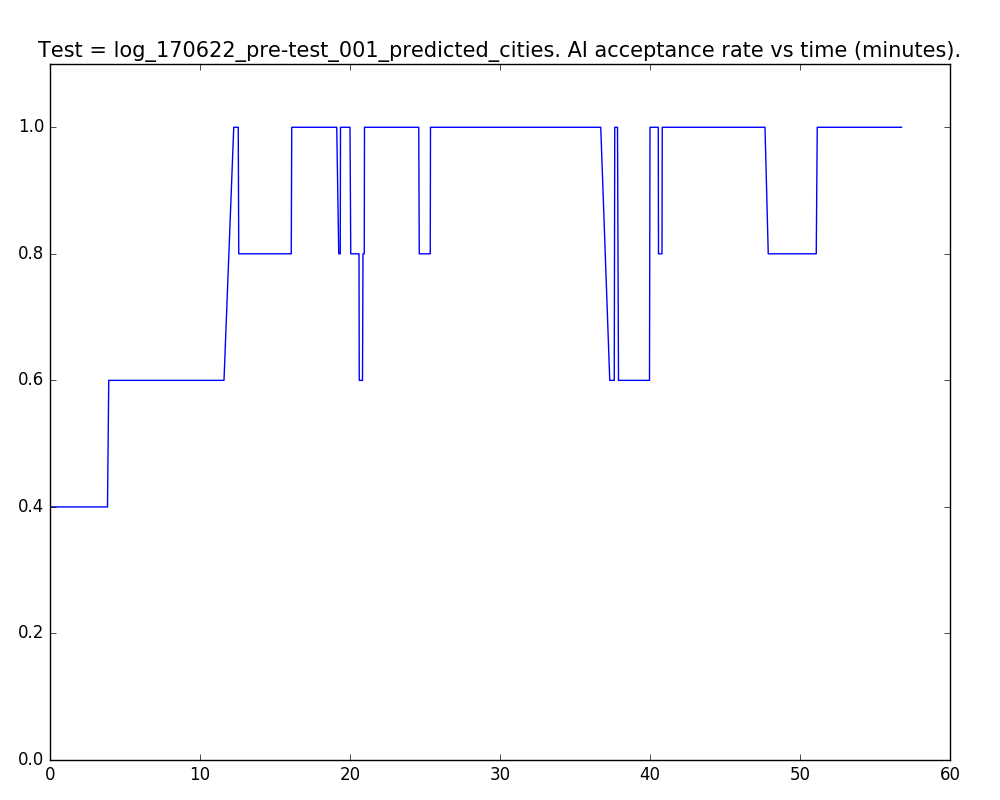
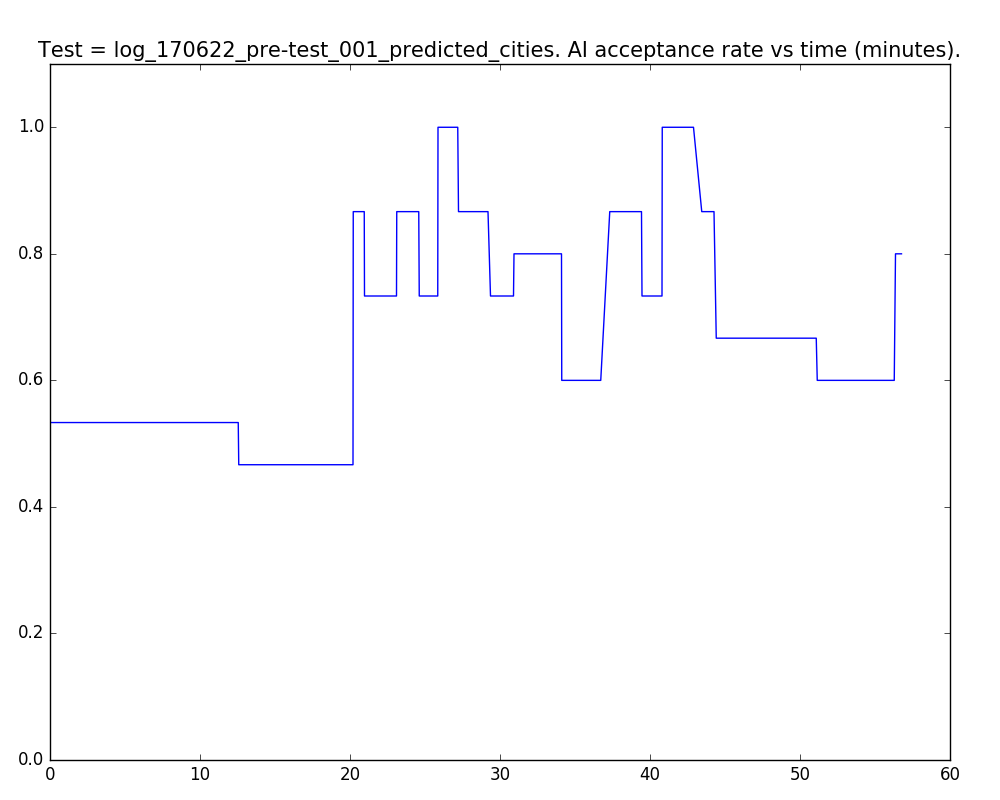
Final analysis code, for now.

diff --git a/analysis/kevin_analysis.py b/analysis/kevin_analysis.py
@@ -30,8 +30,8 @@ import cityiograph
 BASE_DIR = '/Users/Kevin/Documents/mit/urop/data/server_test_data/'
 CITY_SIZE = 16
 METRIC_NAMES = [ "Density" , "Diversity" , "Energy" , "Traffic" , "Solar" ]
-MOVE_THRESHOLD = 3
-BIN_SIZE = 5
+MOVE_THRESHOLD = 5
+BIN_SIZE = 15
 
 ''' --- GLOBAL HELPER METHODS --- '''
 
@@ -492,6 +492,7 @@ def ai_acceptance():
 
             else:
                 move = city.get_move(prev)
+                prev = city
 
                 # Trim our set if needed
                 if len(move_set) == MOVE_THRESHOLD + 1:
@@ -541,6 +542,6 @@ if __name__ == '__main__':
     # get_density_info()
     # ai_weight_track()
     # scores()
-    ai_acceptance()
+    # ai_acceptance()
 
     print("Process complete. Took {} seconds.".format(time.time() - start))

diff --git a/analysis/LATEST_NOTES_002.md b/analysis/LATEST_NOTES_002.md
@@ -10,6 +10,7 @@ Here, we seek to analyze some key data metrics from our CityMAItrix Assistant. U
 4. [AI Weights](#ai-weights)
 5. [Individual City Scores](#individual-city-scores)
 6. [Total City Scores](#total-city-scores)
+7. [AI Acceptance Rate](#ai-acceptance-rate)
 
 ## AI Move Type Choice
 
@@ -48,3 +49,23 @@ Now, we can take a look at each score value over time. Here, I average over ever
 Now, let's take a look at the **total score value for the city** over time. Again, I average over every *N = 2* data points to smooth out our score data. [(back to top)](#quick-links)
 
 ![Alt](data_new/log_170622_pre-test_002_predicted_cities_total_score.png)
+
+## AI Acceptance Rate
+
+Here, we look at the **AI acceptance rate**. We consider the AI move to be **accepted** if the user makes that same move in the next 3 steps. [(back to top)](#quick-links)
+
+For a `'DENSITY'` type move, we only look at the index in the density array, not the actual value. This deals with small errors on the toggle.
+
+We use a `MOVE_THRESHOLD = 5` to deal with the cities that are sent in between moves by the GH client.
+
+We bucket the rates into `BIN_SIZE = 15` groups to look at the rates over time.
+
+So, we define the acceptance rate *R* over a time range *[a, b]*, where *b - a* = `BIN_SIZE`, to be
+
+<p align="center">
+  <img src="https://latex.codecogs.com/gif.latex?%5Cfrac%7B%5Csum_%7Bi%20%3D%20a%7D%5Eb%20M%5Bi%5D%7D%7Bb%20-%20a%7D" alt="Sublime's custom image"/>
+</p>
+
+where *M[i]* = 1 if the user accepts the AI at time *i*, else 0.
+
+![Alt](data_new/log_170622_pre-test_002_predicted_cities_ai_acceptance.png)

diff --git a/analysis/LATEST_NOTES_003.md b/analysis/LATEST_NOTES_003.md
@@ -10,6 +10,7 @@ Here, we seek to analyze some key data metrics from our CityMAItrix Assistant. U
 4. [AI Weights](#ai-weights)
 5. [Individual City Scores](#individual-city-scores)
 6. [Total City Scores](#total-city-scores)
+7. [AI Acceptance Rate](#ai-acceptance-rate)
 
 ## AI Move Type Choice
 
@@ -48,3 +49,23 @@ Now, we can take a look at each score value over time. Here, I average over ever
 Now, let's take a look at the **total score value for the city** over time. Again, I average over every *N = 2* data points to smooth out our score data. [(back to top)](#quick-links)
 
 ![Alt](data_new/log_170623_pre-test_003_predicted_cities_total_score.png)
+
+## AI Acceptance Rate
+
+Here, we look at the **AI acceptance rate**. We consider the AI move to be **accepted** if the user makes that same move in the next 3 steps. [(back to top)](#quick-links)
+
+For a `'DENSITY'` type move, we only look at the index in the density array, not the actual value. This deals with small errors on the toggle.
+
+We use a `MOVE_THRESHOLD = 5` to deal with the cities that are sent in between moves by the GH client.
+
+We bucket the rates into `BIN_SIZE = 15` groups to look at the rates over time.
+
+So, we define the acceptance rate *R* over a time range *[a, b]*, where *b - a* = `BIN_SIZE`, to be
+
+<p align="center">
+  <img src="https://latex.codecogs.com/gif.latex?%5Cfrac%7B%5Csum_%7Bi%20%3D%20a%7D%5Eb%20M%5Bi%5D%7D%7Bb%20-%20a%7D" alt="Sublime's custom image"/>
+</p>
+
+where *M[i]* = 1 if the user accepts the AI at time *i*, else 0.
+
+![Alt](data_new/log_170623_pre-test_003_predicted_cities_ai_acceptance.png)

diff --git a/analysis/LATEST_NOTES_001.md b/analysis/LATEST_NOTES_001.md
@@ -52,13 +52,13 @@ Now, let's take a look at the **total score value for the city** over time. Agai
 
 ## AI Acceptance Rate
 
-Here, we look at the **AI acceptance rate**. We consider the AI move to be **accepted** if the user makes that same move in the next 3 steps.
+Here, we look at the **AI acceptance rate**. We consider the AI move to be **accepted** if the user makes that same move in the next 3 steps. [(back to top)](#quick-links)
 
 For a `'DENSITY'` type move, we only look at the index in the density array, not the actual value. This deals with small errors on the toggle.
 
-We use a `MOVE_THRESHOLD = 3` to deal with the cities that are sent in between moves by the GH client.
+We use a `MOVE_THRESHOLD = 5` to deal with the cities that are sent in between moves by the GH client.
 
-We bucket the rates into `BIN_SIZE = 5` groups to look at the rates over time.
+We bucket the rates into `BIN_SIZE = 15` groups to look at the rates over time.
 
 So, we define the acceptance rate *R* over a time range *[a, b]*, where *b - a* = `BIN_SIZE`, to be
 
